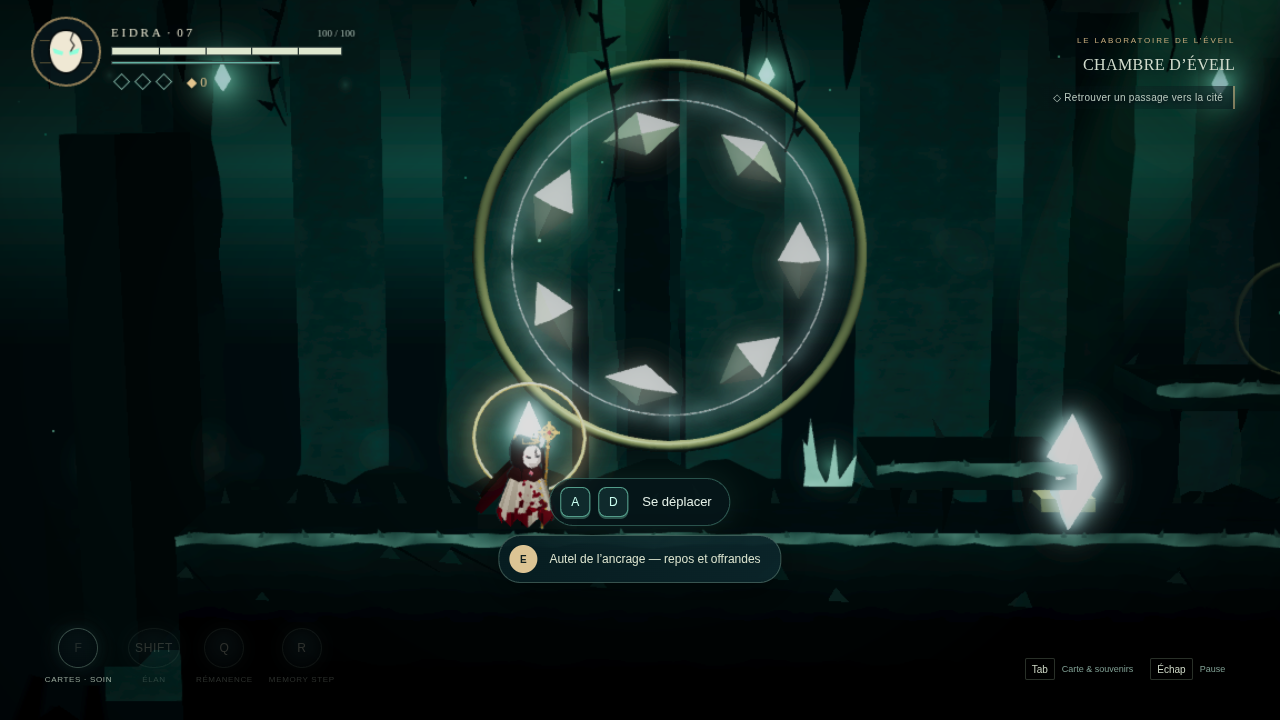
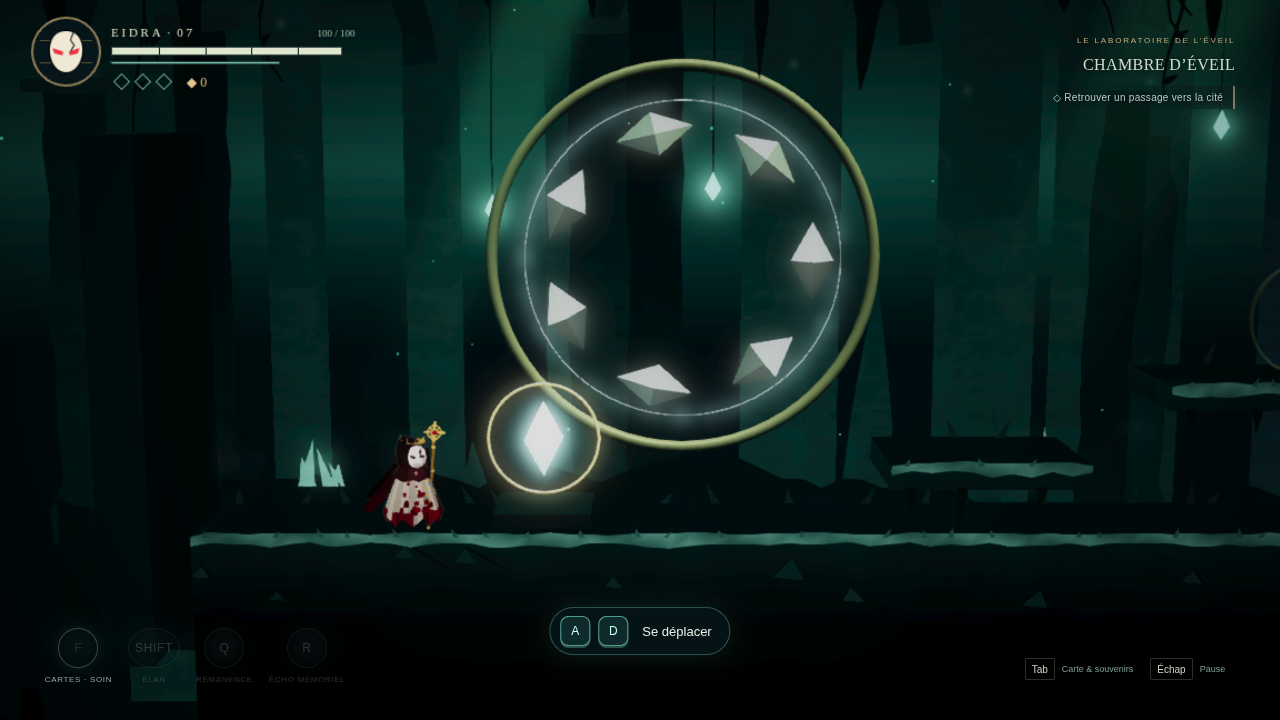
Document Act I in rooms: decisions, level design, tests and performance
D036 now covers the updraft under overhead doors, the four-lane stairs,
gates that stop at the vault and the counterweight anchor at x 127.
Release notes, testing (reach model and physical replay), game design
(the ten foes, the journal), architecture (Rooms, 2D streaming),
roadmap and README follow the thirteenth iteration.

Performance A/B against main: route scenes within noise (CPU equal to
0.1 ms over four passes, draw calls equal or lower); chambers cost what
a route room costs, since only one is shown. Rooms one door away stay
loaded but hidden, hence more meshes and static bodies, steady over
twelve streaming round trips.

Claude-Session: https://claude.ai/code/session_01Q4HpwgZSs3YSowU4xBjobR

diff --git a/docs/ROADMAP.md b/docs/ROADMAP.md
@@ -2,31 +2,31 @@
 
 ## État livré : deux actes jouables (laboratoire, Failles de cendre)
 
-| Phase                                | État                               | Limite / gate restant                                                       |
-| ------------------------------------ | ---------------------------------- | --------------------------------------------------------------------------- |
-| 0 — Stack, dépôt, scène, docs, tests | Réalisée                           | Git local ; GitHub connecté, dépôt non accessible                           |
-| 1 — Contrôleur, caméra, input        | Jouable et testé                   | Wall slide / wall jump pour la campagne future                              |
-| 2 — Combat, dégâts, mort             | Jouable et testé, game feel ajouté | Animation finale et équilibrage humain                                      |
-| 3 — FSM et ennemis                   | Cinq archétypes                    | Animations finales                                                          |
-| 4 — Mini-boss / architecture boss    | Moteur de boss par données         | Identité artistique à affiner                                               |
-| 5 — Rémanence / Écho mémoriel        | Jouable et testé                   | Playtests puzzles / lisibilité                                              |
-| 6 — Sauvegardes, ancrages, respawn   | Réalisée pour le slice             | Qualification quotas / autres navigateurs                                   |
-| 7 — Streaming et transitions         | Réalisée pour le slice             | Ressources bornées, retour par conduit                                      |
-| 8 — Biome du slice                   | Prototype jouable                  | Art Blender final, durée et rythme à valider                                |
-| 9 — Boss qualité production          | Prototype avancé                   | Quatre boss, chacun sa capacité et sa démarche ; équilibrage humain restant |
-| 10 — Narration                       | Deux actes jouables + bible        | Révélations et campagne entière restantes                                   |
-| 11 — Neuf régions                    | Deux jouables                      | Art de production et sept régions restantes                                 |
-| 12 — Sept boss principaux            | Quatre jouables                    | Porteur, Gardien, Sentinelle et Ilyra ; trois restants                      |
-| 13 — Audio / VFX / shaders           | Partition et bruitages générés     | Enregistrement musical, rigs, VFX et textures de production restants        |
-| 14 — Performance                     | Instrumentée et mesurée            | 60 FPS sur GPU moyen non certifiés                                          |
-| 15 — Accessibilité / input           | Toutes manettes, remappage         | Qualification sur manettes physiques                                        |
-| 16 — QA complet                      | Chromium logiciel + tests domaine  | Firefox / Safari / WebGPU matériel restants                                 |
-| 17 — Release                         | Build et configuration prêts       | Publication requiert l'accès Cloudflare                                     |
+| Phase                                | État                                | Limite / gate restant                                                          |
+| ------------------------------------ | ----------------------------------- | ------------------------------------------------------------------------------ |
+| 0 — Stack, dépôt, scène, docs, tests | Réalisée                            | Git local ; GitHub connecté, dépôt non accessible                              |
+| 1 — Contrôleur, caméra, input        | Jouable et testé                    | Wall slide / wall jump pour la campagne future                                 |
+| 2 — Combat, dégâts, mort             | Jouable et testé, game feel ajouté  | Animation finale et équilibrage humain                                         |
+| 3 — FSM et ennemis                   | Dix types (cinq dans les salles)    | Animations finales                                                             |
+| 4 — Mini-boss / architecture boss    | Moteur de boss par données          | Identité artistique à affiner                                                  |
+| 5 — Rémanence / Écho mémoriel        | Jouable et testé                    | Playtests puzzles / lisibilité                                                 |
+| 6 — Sauvegardes, ancrages, respawn   | Réalisée pour le slice              | Qualification quotas / autres navigateurs                                      |
+| 7 — Streaming et transitions         | Salles 2D, portes, voile (D036)     | Salles pour l'Acte II                                                          |
+| 8 — Biome du slice                   | Acte I en 25 salles, carte, journal | Art Blender final ; durée (45–55 min estimées) et rythme à valider en playtest |
+| 9 — Boss qualité production          | Prototype avancé                    | Quatre boss, chacun sa capacité et sa démarche ; équilibrage humain restant    |
+| 10 — Narration                       | Deux actes jouables + bible         | Révélations et campagne entière restantes                                      |
+| 11 — Neuf régions                    | Deux jouables                       | Art de production et sept régions restantes                                    |
+| 12 — Sept boss principaux            | Quatre jouables                     | Porteur, Gardien, Sentinelle et Ilyra ; trois restants                         |
+| 13 — Audio / VFX / shaders           | Partition et bruitages générés      | Enregistrement musical, rigs, VFX et textures de production restants           |
+| 14 — Performance                     | Instrumentée et mesurée             | 60 FPS sur GPU moyen non certifiés                                             |
+| 15 — Accessibilité / input           | Toutes manettes, remappage          | Qualification sur manettes physiques                                           |
+| 16 — QA complet                      | Chromium logiciel + tests domaine   | Firefox / Safari / WebGPU matériel restants                                    |
+| 17 — Release                         | Build et configuration prêts        | Publication requiert l'accès Cloudflare                                        |
 
 ## Prochaine séquence
 
 1. Qualifier WebGPU et 60 FPS sur au moins deux GPU moyens réels, Windows et macOS.
-2. Playtester sans outils debug : compréhension des pouvoirs, secret, retour, difficulté du Porteur, du Gardien, de la Sentinelle et d'Ilyra (lisibilité des reflets, tolérance du Commandement), rythme des colonnes de feu, durée réelle.
+2. Playtester sans outils debug l'Acte I en salles : temps réel de chaque pouvoir (Élan, Rémanence, Écho), orientation avec la carte, découverte des trois murs fêlés et du raccourci de la grille, lisibilité des cinq nouveaux ennemis ; puis compréhension des pouvoirs, secret, retour, difficulté du Porteur, du Gardien, de la Sentinelle et d'Ilyra (lisibilité des reflets, tolérance du Commandement), rythme des colonnes de feu, durée réelle.
 3. Remplacer les silhouettes TODO_ART par des rigs Blender et animations intentionnelles, conserver les proxies simples.
 4. Raffiner la boucle d'exploration du laboratoire et le combat jusqu'à validation du gate.
 5. Produire l'art final des Failles de cendre, puis les Jardins de verre et les autres régions, avec le même niveau d'exigence.

diff --git a/docs/DECISIONS.md b/docs/DECISIONS.md
@@ -192,10 +192,11 @@ L'étape 2 de l'analyse demandait de passer d'une route en x à un graphe de sal
 
 - **Le modèle** (`game-data/zones/laboratory.ts`, `src/world/Rooms.ts`, pur et testé). Chaque secteur de la route est une salle `route` (de `start` à `end`, de −5 à 11 m) ouverte sur ses voisines. Une `chamber` est une boîte (`start`..`end` × `bottom`..`top`) dont les murs, le sol et la voûte (`shell`, 0,6 m d'épaisseur, à l'intérieur de la boîte) ne s'ouvrent qu'à ses **portes** : une plage de y sur un côté, une plage de x en haut ou en bas. Une porte mène à la salle qui se trouve de l'autre côté (`roomAt`) ; une porte de sol qui ne mène nulle part est un gouffre. Les ouvertures des salles de la route (le trou du puits dans la galerie, la voûte du contrepoids) se déduisent des portes des chambres. Le monde reste **un seul espace physique** : on tombe vraiment d'une salle dans l'autre.
 - **Streaming en 2D** (`SceneManager`). La salle d'Eidra est suivie avec une hystérésis de 0,3 m ; une chambre qu'on atteint par le sol d'une salle de la route prend le relais tout de suite. Dans la route, les salles à moins de 24 m le long de x sont affichées comme un couloir continu, comme avant ; dans une chambre, seule la chambre l'est. Les salles à une porte de distance sont **chargées mais cachées** : leur sol est là au moment où Eidra passe. Les ennemis et les colonnes de feu ne vivent que dans les salles affichées.
-- **Caméra et passage.** Dans une chambre, la vue reste entre ses murs (`confine`) ; une salle plus étroite que l'écran est centrée. Passer une porte vers ou depuis une chambre coupe par un **voile noir** de 0,4 s et recadre la caméra d'un coup (`Presentation.enter`, voile dans le HUD). Une porte au-dessus d'Eidra la porte d'un **courant ascendant** au-dessus du seuil (`GameSession.updraft`) : un saut qui atteint l'ouverture atterrit toujours à côté.
-- **Systèmes de la route.** Ce qui était lu le long de x l'est désormais seulement dans les salles de la route : arènes et boss (et un boss n'écoute pas Eidra à plus de 12 m au-dessus ou au-dessous de lui), portes de progression, dialogues de la route, indices par bande de x (un indice peut aussi désigner une salle), sceau du contrepoids. Ambiance et musique d'une chambre sont celles de son secteur, ou les siennes (`moods[room.id]`). Les ancrages ont une hauteur (`y`). Une chute hors de toute salle renvoie, dans la route, sur la rive du gouffre ; dans une chambre, sur le dernier sol ferme où Eidra se tenait. Les portes de progression montent jusqu'à la voûte (12 m) : aucune corniche ne permet de les sauter.
+- **Caméra et passage.** Dans une chambre, la vue reste entre ses murs (`confine`) ; une salle plus étroite que l'écran est centrée. Passer une porte vers ou depuis une chambre coupe par un **voile noir** de 0,4 s et recadre la caméra d'un coup (`Presentation.enter`, voile dans le HUD). Une porte au-dessus d'Eidra la porte d'un **courant ascendant** au-dessus du seuil (`draftAt` dans `Rooms.ts`, appliqué par `GameSession.updraft`) : à moins de 2 m sous l'ouverture, entre ses bords (0,35 m de marge) et en montant, Eidra est relancée juste assez pour poser les pieds 0,7 m au-dessus du seuil ; un saut qui atteint l'ouverture atterrit donc toujours à côté, sans se cogner à la voûte. Un volet ou un mur fêlé encore fermé dans l'ouverture coupe le courant.
+- **Systèmes de la route.** Ce qui était lu le long de x l'est désormais seulement dans les salles de la route : arènes et boss (et un boss n'écoute pas Eidra à plus de 12 m au-dessus ou au-dessous de lui), portes de progression, dialogues de la route, indices par bande de x (un indice peut aussi désigner une salle), sceau du contrepoids. Ambiance et musique d'une chambre sont celles de son secteur, ou les siennes (`moods[room.id]`). Les ancrages ont une hauteur (`y`). Une chute hors de toute salle renvoie, dans la route, sur la rive du gouffre ; dans une chambre, sur le dernier sol ferme où Eidra se tenait. Les portes de progression montent jusqu'à la voûte des salles de la route (11 m) : aucune corniche ne permet de les sauter, et elles ne dépassent pas dans les chambres posées au-dessus. L'ancrage du contrepoids passe de x 136,5 à x 127, sur le sol plat qui précède les corniches de la cage.
 - **Sceaux** (`seals`) : un **mur fêlé** cède après quelques coups et cache une salle secrète ; un **volet** ne s'ouvre que par son levier, de l'autre côté (raccourci). Ils appartiennent au monde et non à une salle, pour être vus et solides des deux côtés d'une porte ; leur ouverture est un drapeau `open:<id>`, donc la sauvegarde n'a pas changé de forme.
 - **Peinture des chambres** (`paintChamber`) : peinte comme si son sol était à 0 puis déplacée à sa hauteur, avec les outils du décor de la route (colonnes, arches, fenêtres, rouages, bannières, lanternes, cristaux, lianes) ; roche tout autour avec des blocs de pierre, mur du fond en assises, embrasures sombres et seuil éclairé aux portes, lumière qui tombe des ouvertures du haut. Les dalles de Rémanence se voient en fantôme (opacité 0,32) bien avant que le pouvoir les rende solides.
+- **Escaliers** (`stairs` dans `depths.ts`). Une montée est une suite de marches de 2,2 m de large, 1,7 m plus haut l'une que l'autre, réparties sur quatre couloirs parcourus dans l'ordre gauche → milieu-droite → droite → milieu-gauche, de sorte qu'aucune marche ne surplombe le bord d'où l'on saute vers la suivante (plus de coup de tête sous une marche). Une montée de Rémanence ne dépasse pas 8 marches et garde un repos solide : le pouvoir dure 10 s.
 - **Validation du niveau** (`tests/unit/rooms.test.ts`, `tests/unit/support/reach.ts`). Un modèle des surfaces praticables (sauts balistiques de `MovementModel`, chutes, Élan, Rémanence, portes, courant ascendant, murs fêlés, volet ouvert une fois son levier atteint) prouve que l'Acte I se termine dans l'ordre (Élan, puis Rémanence, puis Écho mémoriel), qu'aucun pouvoir n'est atteignable trop tôt et qu'**aucun endroit n'est une impasse** : de toute surface atteignable, le pouvoir suivant reste atteignable. Les autres tests : salles sans chevauchement, portes réciproques, chambres hors d'atteinte d'une chute dans un gouffre de la route, ancrages sur un sol ferme, ennemis sur leur sol, sceaux dans une porte, streaming borné.
 - **Compatibilité.** Une sauvegarde de la version précédente se charge telle quelle : sa position le long de la route reste valide, les identifiants des pouvoirs déjà ramassés ne changent pas (un pouvoir déjà obtenu n'apparaît plus dans sa nouvelle salle), et le seul champ ajouté (`bestiary`) a une valeur par défaut.
 

diff --git a/docs/LEVEL_DESIGN.md b/docs/LEVEL_DESIGN.md
@@ -18,13 +18,13 @@ L'Acte I compte **25 salles** : les 5 secteurs de la route (salles ouvertes le l
 2. **Galerie des veilleurs** (route, 40–80) : Souvenir errant, Porteur de cendres, parade ; ancrage de Mira (73). Après Mira, le sol s'ouvre sur **le puits** (78–80) : Mira dit que ce qu'on voulait oublier, on le descendait là.
 3. **Les profondeurs** (−52 à −2) : le puits de Mira (une chute ; ses marches sont des souvenirs), les archives englouties (ancrage des archives, Coque murée, Phalènes), la salle des élans (**Élan de Lumérite**, ~10 min) et l'épreuve de l'Élan (un gouffre de 7,6 m, un reliquaire), le gouffre des copistes (8 m : seul l'Élan le franchit), l'escalier noyé (une montée de 22 m) et la chapelle noyée (deux Gisants, un reliquaire), le sanctuaire de la **Rémanence** (~20 min), puis les racines du souvenir : des marches remémorées jusqu'à une **grille** sous les archives, dont le levier est en bas (raccourci vers l'ancrage). Le puits se remonte alors par ses marches remémorées.
 4. **Pont du souvenir** (route, 80–120) : la Rémanence refait le pont ; Veilleur du pont, sortie scellée.
-5. **Chambre du contrepoids** (route, 120–160) : ancrage (136,5) ; des corniches montent vers la voûte (135–138) et **les combles** : la cage du contrepoids, le beffroi, le sanctuaire de l'**Écho mémoriel** (~35 min). L'Écho tient le sceau (130), la porte (141) s'ouvre sur le fragment de Seris et l'arène du Porteur.
+5. **Chambre du contrepoids** (route, 120–160) : ancrage (127, sur le sol plat avant les corniches) ; des corniches montent vers la voûte (135–138) et **les combles** : la cage du contrepoids, le beffroi, le sanctuaire de l'**Écho mémoriel** (~35 min). L'Écho tient le sceau (130), la porte (141) s'ouvre sur le fragment de Seris et l'arène du Porteur.
 6. **Les combles** reviennent vers l'ouest : combles du contrepoids (mur fêlé vers la loge de Noa), archives suspendues au-dessus du pont (Rémanence et Élan ; tomber ramène au pont), loge des lanternes (on retombe sur l'ancrage de Mira), nef haute, crypte des berceaux (fragment d'Aren) au-dessus de la chambre d'éveil, et l'oculus derrière un mur fêlé.
 7. **Le seuil de l'obéissance** (route, 160–201) : Gardien Sans Visage, puis l'Acte II.
 
 Pouvoirs espacés : Élan ~10 min, Rémanence ~20 min, Écho ~35 min (estimations à confirmer en playtest). Fragments : Kael, Deren (cabinet scellé), Aren, Noa, Seris dans l'Acte I ; Ilyan et Vaela dans l'Acte II : les sept sont placés. Trois secrets derrière des murs fêlés (cabinet, oculus, loge de Noa), quatre reliquaires d'éclats.
 
-**Règles de construction** (tests `rooms`, `walkway`) : les chambres ne se chevauchent pas et ne montent pas dans une salle de la route (sous sa dalle de sol, à −2, ou au-dessus de sa voûte, à 11) ; sous un gouffre de la route, elles restent à 4 m sous la ligne de chute ; une porte mène toujours à une salle dont la porte lui fait face (ou, au sol, à un gouffre) ; les escaliers alternent deux colonnes avec des marches de 1,7 m au plus ; une ouverture au-dessus d'Eidra se franchit d'un saut (courant ascendant) depuis une marche sous elle ; les portes de progression montent jusqu'à la voûte. Le modèle de portée (`reach`) prouve l'ordre des pouvoirs et l'absence d'impasse.
+**Règles de construction** (tests `rooms`, `walkway`) : les chambres ne se chevauchent pas et ne montent pas dans une salle de la route (sous sa dalle de sol, à −2, ou au-dessus de sa voûte, à 11) ; sous un gouffre de la route, elles restent à 4 m sous la ligne de chute ; une porte mène toujours à une salle dont la porte lui fait face (ou, au sol, à un gouffre) ; les escaliers (`stairs`) montent par marches de 2,2 m de large et 1,7 m de haut sur quatre couloirs (gauche → milieu-droite → droite → milieu-gauche), si bien qu'aucune marche ne surplombe le bord d'où l'on saute ; une montée de Rémanence a au plus 8 marches et un repos solide (le pouvoir dure 10 s) ; une ouverture au-dessus d'Eidra se franchit d'un saut depuis une marche sous elle : à moins de 2 m du seuil, un courant ascendant la pose 0,7 m au-dessus (`draftAt`), sauf si un volet ou un mur fêlé ferme encore l'ouverture ; les portes de progression montent jusqu'à la voûte de la route (11 m). Les corniches de récompense sont à 1,25 m au-dessus de leur sol (une marche, pas une dalle à hauteur de tête). Le modèle de portée (`reach`) prouve l'ordre des pouvoirs et l'absence d'impasse.
 
 Favoriser des boucles courtes, des vues sur les passages inaccessibles et un retour après acquisition. Chaque secteur possède ses ressources et ses proxies de collision. Ne jamais charger les neuf régions ensemble.
 
@@ -65,7 +65,7 @@ Le pont du souvenir comporte trois plateformes disparues séparées par de petit
 | Champs de braise      | Porte-braise, Rampant, Porteur      | 279,5      |
 | La Faille             | deux Souvenirs errants              | 320        |
 
-Aucune dalle ne pend entre la taille et la tête d'Eidra (1 à 1,95 m au-dessus d'un sol) : une corniche au-dessus du passage la laisse passer dessous et reste à un saut, ou à une marche (D035, test `walkway`, chambres comprises). Ancrages : éveil (7), Mira (73), archives (72, −29,4, dans les profondeurs), contrepoids (136,5, avant le Porteur), seuil (160), Nhalis (205), braises (242,5, avant les colonnes de feu), Faille (283,5), Brasier (322,5), Jardin (364). Chaque sortie est dans son propre secteur, sur sol plein, à plus de 2 m d'un ancrage de la route ; l'ancrage de Mira (x = 73) récompense la galerie. Un secteur de la route qui reçoit des ennemis hors arène doit déclarer une étape (test unitaire) ; les chambres n'en ont pas.
+Aucune dalle ne pend entre la taille et la tête d'Eidra (1 à 1,95 m au-dessus d'un sol) : une corniche au-dessus du passage la laisse passer dessous et reste à un saut, ou à une marche (D035, test `walkway`, chambres comprises). Ancrages : éveil (7), Mira (73), archives (72, −29,4, dans les profondeurs), contrepoids (127, avant le Porteur), seuil (160), Nhalis (205), braises (242,5, avant les colonnes de feu), Faille (283,5), Brasier (322,5), Jardin (364). Chaque sortie est dans son propre secteur, sur sol plein, à plus de 2 m d'un ancrage de la route ; l'ancrage de Mira (x = 73) récompense la galerie. Un secteur de la route qui reçoit des ennemis hors arène doit déclarer une étape (test unitaire) ; les chambres n'en ont pas.
 
 | Arène            | Gardien                  | Portes (x)    | Seuil | Zone du gardien |
 | ---------------- | ------------------------ | ------------- | ----- | --------------- |

diff --git a/README.md b/README.md
@@ -39,7 +39,7 @@ Ouvrir l'adresse indiquée par Vite, généralement http://127.0.0.1:4173. Ne pa
 | Rémanence, après acquisition      | Q                                      | Y / △ / X                               |
 | Écho mémoriel, après acquisition  | R                                      | RB / R1 / R                             |
 | Dialogue / ancrage / autel / pass | E                                      | Haut (stick ou croix)                   |
-| Carte et souvenirs                | Tab                                    | View / Create / −                       |
+| Journal (carte, bestiaire, souv.) | Tab                                    | View / Create / −                       |
 | Pause                             | Échap                                  | Menu / Options / +                      |
 
 Touches remappables dans Réglages. Assistance facultative : dégâts reçus réduits.
@@ -48,7 +48,7 @@ Touches remappables dans Réglages. Assistance facultative : dégâts reçus ré
 
 ## Contenu jouable
 
-Dix secteurs en deux actes (le laboratoire, puis les Failles de cendre) ; mouvement avec coyote time et jump buffer ; capsule Havok ; dash ; attaques légère, chargée, aérienne, plongeante (pogo) et pendant le dash, avec tampon d’entrée ; combo ; parade et riposte ; hit-stop ; Recueillement (soin alimenté par la résonance des coups portés) ; cinq archétypes ennemis (dont le Rampant qui bondit et le Porte-braise qui tire des salves) ; quatre boss pilotés par les données, chacun avec sa démarche et sa capacité signature — le Porteur du dernier ordre (marche lourde, Étendard planté qui envoie des ondes), le Gardien Sans Visage (lévitation, « NE BOUGEZ PLUS » : un éclat tombe sur Eidra si elle bouge ; pluie d'éclats, disparition, ondes successives), la Sentinelle de cendre (bonds sur la marque d'Eidra, ligne de geysers) et Ilyra (glisse, Reflets à trouver parmi les copies ; pétales, voile d'éclats, ronces, floraison) — avec télégraphes qui raccourcissent et enchaînements ; colonnes de feu à traverser en rythme ; Seconde impulsion (double saut) et la Faille ; Rémanence ; Écho de cinq secondes ; contrepoids ; raccourci de maintenance ; quatre souvenirs ; Mira ; transmissions de Sael ; Ilyra et l'épilogue ; ancrages et autel d’offrandes (éclats → vitalité) ; trois sauvegardes ; carte ; mort et respawn ; bande-son originale générée (thème du titre, un thème par région et par boss, motifs de victoire, de pouvoir, de repos et de mort, ambiances, silence après une victoire) et 59 bruitages en couches avec variantes (pas selon le sol, atterrissages, combos, cartes, coups, télégraphes et capacités des boss, menus) ; quatre presets.
+Deux actes : le laboratoire en 25 salles (les cinq secteurs de la route et 20 chambres au-dessus et au-dessous, reliées par des portes en haut, en bas et sur les côtés, avec boucles, trois salles secrètes derrière des murs fêlés et un raccourci à levier), puis les Failles de cendre en cinq secteurs ; mouvement avec coyote time et jump buffer ; capsule Havok ; dash ; attaques légère, chargée, aérienne, plongeante (pogo) et pendant le dash, avec tampon d’entrée ; combo ; parade et riposte ; hit-stop ; Recueillement (soin alimenté par la résonance des coups portés) ; dix types d'ennemis (dont la Phalène de cire qui plonge, la Coque murée qui pare de face, le Gisant qui dort en pierre, la Lanterne-guetteuse, les Mites de poussière, le Rampant qui bondit et le Porte-braise qui tire des salves) ; quatre boss pilotés par les données, chacun avec sa démarche et sa capacité signature — le Porteur du dernier ordre (marche lourde, Étendard planté qui envoie des ondes), le Gardien Sans Visage (lévitation, « NE BOUGEZ PLUS » : un éclat tombe sur Eidra si elle bouge ; pluie d'éclats, disparition, ondes successives), la Sentinelle de cendre (bonds sur la marque d'Eidra, ligne de geysers) et Ilyra (glisse, Reflets à trouver parmi les copies ; pétales, voile d'éclats, ronces, floraison) — avec télégraphes qui raccourcissent et enchaînements ; colonnes de feu à traverser en rythme ; Seconde impulsion (double saut) et la Faille ; Rémanence ; Écho de cinq secondes ; contrepoids ; raccourci de maintenance ; sept fragments de souvenir ; Mira ; transmissions de Sael ; Ilyra et l'épilogue ; ancrages et autel d’offrandes (éclats → vitalité) ; trois sauvegardes ; journal (carte de l'acte salle par salle, bestiaire, souvenirs) ; mort et respawn ; bande-son originale générée (thème du titre, un thème par région et par boss, motifs de victoire, de pouvoir, de repos et de mort, ambiances, silence après une victoire) et 59 bruitages en couches avec variantes (pas selon le sol, atterrissages, combos, cartes, coups, télégraphes et capacités des boss, menus) ; quatre presets.
 
 Eidra : capuche sombre couronnée d'épines dorées, masque blanc aux yeux pourpres, longs cheveux noirs, robe ivoire éclaboussée de rouge, cape pourpre en lambeaux, bâton doré ; sa résonance tourne autour d'elle en cartes rouges qu'elle lance d'un appui bref (en éventail de trois après une parade), qui forment un bouclier pendant la parade et jaillissent en rafale à l'attaque chargée. Combo de bâton en trois coups (balayage, arc montant, estoc), dash à traînée pourpre, poses de saut, d'apex et de chute, pogo bâton vers le bas.
 

diff --git a/docs/TESTING.md b/docs/TESTING.md
@@ -115,6 +115,21 @@ Avant les tests automatiques, une partie complète a été jouée par un script 
 
 25 parcours E2E. Ajout : **« one prompt at a time, off Eidra, and a clear way under the ledges »** — le voyage commence hors de portée du premier ancrage, la leçon d'abord ; sur l'ancrage (déjà le sien), l'autel remplace la leçon, sur une ligne sous les pieds d'Eidra (plus bas que 80 % de l'écran) ; Eidra passe sous la corniche de Seris par vraies touches jusqu'à l'arène du Porteur ; blessée pendant le combat, aucune leçon ne s'affiche ; l'ancrage du contrepoids s'active. Parcours répété 3 / 3 ; les 24 autres passent sans changement.
 
+## Treizième itération : l'Acte I en salles
+
+234 tests unitaires / intégration dans 27 fichiers. Nouveaux fichiers :
+
+- `rooms.test.ts` : l'Acte I compte au moins 25 salles ; aucune chambre n'en chevauche une autre ni ne monte dans une salle de la route ; les chambres sous un gouffre restent hors d'atteinte d'une chute ; chaque porte mène quelque part et la porte d'en face lui répond ; le sol de la route s'ouvre où une chambre pend dessous ; chaque coque a un trou à chaque porte ; `roomAt` garde la salle d'Eidra à sa limite (hystérésis) ; ancrages, reliquaires, ennemis et sceaux sont dans une salle, les marcheurs sur leur sol ; aucune chambre ne réveille un boss ; une chambre est affichée seule, ses voisines chargées derrière leurs portes ; aucune marche d'escalier ne frappe la tête d'un saut depuis une autre ; aucune montée remémorée ne dure plus que la Rémanence ; la voûte du contrepoids s'ouvre au-dessus de ses corniches.
+- **Le modèle de portée** (`tests/unit/support/reach.ts`) parcourt les surfaces praticables : sauts balistiques tirés des constantes de `MovementModel` (avec ou sans Élan), chutes, portes, courant ascendant, dalles de Rémanence, murs fêlés, volet ouvert une fois son levier atteint. Il prouve l'ordre de l'acte (l'Élan d'abord et rien d'autre avant, puis la Rémanence au-delà du gouffre que seul l'Élan franchit, puis l'Écho mémoriel par le contrepoids, la cage et le beffroi, puis la porte du contrepoids, Seris et la fin) et l'absence d'impasse : de toute surface atteignable, le pouvoir suivant reste atteignable. Chaque gouffre qui demande l'Élan est simulé pas à pas avec `MovementModel` : franchi avec, manqué sans.
+- `depths-enemies.test.ts` : dix types d'ennemis, chacun avec une apparence, une ligne de récit et une place dans l'Acte I ; la Phalène plonge une fois par attaque puis remonte ; la Coque se retourne lentement, jamais au milieu d'un coup, et ne pare que de face ; le Gisant reste une pierre inoffensive jusqu'à ce qu'Eidra approche ; la Lanterne reste en place et tire des paires d'étincelles lentes ; les Mites sont les plus rapides et les plus fragiles.
+- `journal.test.ts` : les salles d'un acte ; visitées, entrevues ou cachées (secrets compris) ; la carte en mètres avec ses portes, ses ancrages et Eidra ; le bestiaire ; les seuls souvenirs retrouvés ; les noms de salles en phrases, noms propres gardés.
+
+Tests adaptés : `walkway` (par salle, chambres comprises), `scenery` (bandes de jeu des chambres, ouvertures de la route), `streaming`, `arenas`, `tutorial` (indices par salle), sauvegarde (une partie de l'itération précédente, sans bestiaire, se charge).
+
+26 parcours E2E. Ajout : **« rooms: down the well, through a cracked wall, and the journal of the act »** — après Mira, Eidra tombe dans le puits : seule cette chambre est affichée, ses voisines chargées ; elle touche le fond plus de 14 m sous la route ; dans les archives, le mur fêlé en haut de l'escalier cède sous de vrais coups de bâton, le passage secret est annoncé et le cabinet scellé découvert ; le journal (Tab) dessine les salles visitées, le cabinet comme salle courante, cache l'oculus pas encore trouvé, puis le bestiaire (14 entrées) et les sept souvenirs. Le premier parcours prend désormais l'Élan dans la salle des élans ; celui des ancrages active l'ancrage du contrepoids à x 127.
+
+**Rejeu physique** (hors CI, script Playwright sur le build) : pour chaque saut que le modèle de portée juge possible dans les chambres, Eidra est posée sur la surface de départ et le saut est rejoué avec de vraies touches dans Havok. 115 sauts sur 116 atterrissent où le modèle l'annonce ; le dernier, sur un bloc de 1,2 m de large dans la salle des élans, est dépassé par le script (il n'est pas sur un chemin obligé). Ce rejeu a trouvé les marches qui cognaient la tête, les ouvertures trop basses au départ d'un saut et la montée des racines plus longue que la Rémanence, tous corrigés et désormais couverts par des tests unitaires.
+
 ## Qualité restant à qualifier
 
 WebGPU réel, Firefox / Safari, manettes physiques (les profils Linux evdev et les vibrations n'ont été vérifiés qu'avec des manettes scriptées), accessibilité avec lecteurs d’écran, quotas / stockage privé, CSP sur Cloudflare et campagne complète. Le protocole de performance logiciel est décrit dans PERFORMANCE ; il ne certifie pas 60 FPS. Aucun test défaillant n’est désactivé pour rendre la CI verte.

diff --git a/docs/GAME_DESIGN.md b/docs/GAME_DESIGN.md
@@ -4,9 +4,9 @@ Metroidvania solo 2.5D. Piliers : exploration, combat lisible, mémoire physique
 
 ## Deux actes jouables
 
-**Acte I — Le laboratoire oublié.** Réveil, apprentissage du mouvement, premières rencontres, Mira, acquisition de Rémanence, retour vers un passage oublié, Écho mémoriel, Porteur du dernier ordre et Gardien Sans Visage. L'adieu de Mira ouvre la porte de Nhalis.
+**Acte I — Le laboratoire oublié.** Réveil, apprentissage du mouvement, premières rencontres, Mira, la descente dans le puits, l'Élan de Lumérite, la Rémanence au fond des profondeurs, la remontée vers les combles, l'Écho mémoriel, Porteur du dernier ordre et Gardien Sans Visage. L'adieu de Mira ouvre la porte de Nhalis. L'acte est un réseau de 25 salles sur deux dimensions (D036, LEVEL_DESIGN) : la route et 20 chambres au-dessus et au-dessous, avec des boucles, trois salles secrètes derrière des murs fêlés et un raccourci qui s'ouvre de l'autre côté. Les pouvoirs sont espacés (Élan vers 10 min, Rémanence vers 20 min, Écho vers 35 min) et chacun ouvre des salles déjà aperçues : les dalles de la Rémanence se voient en fantôme dès la première salle. Objectif de durée d'un premier passage : 45 à 55 minutes, à confirmer par playtests humains.
 
-**Acte II — Les Failles de cendre.** Rampants qui bondissent, Porte-braise qui tirent des salves, colonnes de feu à traverser en rythme, Seconde impulsion (double saut), la Faille à franchir de corniche en corniche sous les Souvenirs errants, la Sentinelle de cendre, puis Ilyra au Jardin du déni et l'épilogue. Objectif de durée : 35–50 minutes pour les deux actes, à confirmer par playtests humains. Les deux actes ne sont pas le jeu complet.
+**Acte II — Les Failles de cendre.** Rampants qui bondissent, Porte-braise qui tirent des salves, colonnes de feu à traverser en rythme, Seconde impulsion (double saut), la Faille à franchir de corniche en corniche sous les Souvenirs errants, la Sentinelle de cendre, puis Ilyra au Jardin du déni et l'épilogue. L'Acte II garde sa route ; objectif de durée : 20 à 30 minutes, à confirmer par playtests humains. Les deux actes ne sont pas le jeu complet.
 
 ## Boucle
 
@@ -32,6 +32,14 @@ L'interface n'a qu'un canal (D035) : une invite à la fois, sur une ligne basse 
 ## Manettes
 
 Le jeu se joue entièrement à la manette, quel qu'en soit le modèle, comme les action-plateformes de référence. Disposition par défaut : saut en bas (A / ✕), frappe à gauche (X / □), recueillement à droite maintenu (B / ○), Rémanence en haut (Y / △), esquive sur la gâchette droite, attaque chargée sur la gauche, parade et Écho mémoriel sur les gâchettes hautes, carte sur Select, pause sur Start, parler / s'ancrer / ouvrir un passage en poussant vers le haut, plongée avec bas + frappe. Le stick à mi-course fait marcher. Chaque action (hors déplacement, visée et pause) se réassigne à la manette seule ; la zone morte, la force des vibrations et le style des symboles se règlent. Les menus se parcourent à la manette (navigation spatiale, curseurs et listes à gauche / droite, onglets aux gâchettes hautes, retour sur B / ○). Vibrations : coup porté (léger), parade, blessure, choc lourd, victoire, mort. Débrancher la manette met le jeu en pause.
+
+## Ennemis de l'Acte I
+
+Dix types, décrits par des données (`game-data/enemies/roster.ts`) et chacun lisible à sa silhouette : le **Veilleur fêlé** (hallebarde), le **Souvenir errant** (flotte et tire de loin), le **Porteur de cendres** (enchaîne deux coups), puis dans les salles : la **Phalène de cire** (plane hors de portée, plonge une fois sur Eidra puis remonte : se frappe en l'air ou à la plongée), la **Coque murée** (pare de face, se retourne lentement : on la prend de dos ou par-dessus), la **Mite de poussière** (rapide, fragile, en nombre), la **Lanterne-guetteuse** (immobile, tire des paires d'étincelles lentes à esquiver ou à parer) et le **Gisant** (une pierre inoffensive qui se lève quand on approche). Le Rampant de cendre et le Porte-braise viennent de l'Acte II. Le bestiaire du journal nomme chaque ennemi dès qu'un des siens est tombé, avec une ligne de récit.
+
+## Carte et journal
+
+Le journal (Tab, ou le bouton de carte) montre la carte de l'acte en cours, salle par salle et à l'échelle : salles visitées, salles entrevues par une porte, secrets absents tant qu'ils ne sont pas trouvés, portes, ancrages et position d'Eidra. Deux autres onglets : le bestiaire et les souvenirs retrouvés, en entier.
 
 ## Arènes et contact
 

diff --git a/docs/ARCHITECTURE.md b/docs/ARCHITECTURE.md
@@ -40,10 +40,12 @@ L'écran titre (D034) est une coque de `MenuUI` (sections, profil, nouveautés, 
 
 `ArenaDirector` (bosses) scelle et libère les arènes décrites dans `game-data/zones/laboratory.ts` ; `GameSession.closedGates()` combine ses portes et le sceau du contrepoids, `World` les applique (colliders statiques créés près du joueur, animation de montée purement visuelle, changements signalés à `Presentation` pour la poussière) et `EnemyManager` en borne les corps avec les intervalles de `Terrain` (D020, D021). `GameSession.bossBar` expose au HUD la vie du gardien combattu. Chaque boss du `bossRoster` (`game-data/bosses`, D027) est une `BossEncounter` de `EnemyManager` : son `BossDirector` (logique pure) choisit patterns, phases et enchaînements, le gestionnaire traduit les déclenchements en coups. Les colonnes de feu sont des fonctions pures de `GameSession.hazardTime` (`combat/Hazards`, D029), lues à l'identique par les dégâts et par `Presentation`. `Poses` traduit l'état des FSM, du directeur de boss et du combat en poses clés visuelles (D022), dont les angles du bâton d'Eidra ; `CardSystem` (`combat/Cards`) simule les cartes lancées, `CardHalo` les dessine avec l'orbite de résonance (D031) ; `LightRays` dessine les lames de lumière.
 
-`SceneManager` conserve seulement les secteurs proches, puis libère chaque `ChunkView`. `World` possède les colliders simples et portes d'arène. Les corps mémoire sont créés / détruits quand Rémanence change ; aucune physique n’est attachée à un modèle artistique complexe. `AssetLoader` prépare le chargement GLB asynchrone avec annulation et libération ; le blockout du prélude est actuellement procédural.
+Salles (D036) : `world/Rooms` est la géométrie pure des salles (`roomAt`, `trackRoom` avec hystérésis, portes et passages, coques, solides, courant ascendant `draftAt`), sans Babylon. Les salles de la route viennent de `laboratory.ts`, les chambres de `game-data/zones/depths.ts` ; les sceaux (murs fêlés, volet) sont des solides du monde dont l'ouverture est un drapeau. `SceneManager` suit la salle d'Eidra, affiche sa salle (et, dans la route, les salles de la route à moins de 24 m), charge sans les montrer les salles à une porte et libère les autres ; `GameSession` ne fait vivre ennemis et colonnes de feu que dans les salles affichées. `CameraRig.confine` garde la vue dans une chambre et le HUD porte le voile noir des passages. `ui/Journal` est la carte et le journal en fonctions pures (salles d'un acte, marque d'une salle, carte SVG, bestiaire, souvenirs) ; `MenuUI` ne fait que les disposer.
+
+`SceneManager` conserve seulement les salles proches, puis libère chaque `ChunkView`. `World` possède les colliders simples et portes d'arène. Les corps mémoire sont créés / détruits quand Rémanence change ; aucune physique n’est attachée à un modèle artistique complexe. `AssetLoader` prépare le chargement GLB asynchrone avec annulation et libération ; le blockout du prélude est actuellement procédural.
 
 Les ressources répétées des impacts et projectiles visuels sont préallouées. Les meshes statiques sont fusionnés par matériau, sauf les éléments interactifs. Les décodeurs WASM et JS sont servis localement. L’audio Babylon V2 utilise des boucles OGG originales, un crossfade et des effets spatiaux, avec secours WAV explicite.
 
 ## Persistance
 
-SaveManager valide les frontières avec Zod et écrit dans IndexedDB. Trois slots, version 2, migration depuis 1 ; version future / corruption refusées sans écrasement silencieux. Les positions transitoires sur le pont mémoire ou pendant le boss sont remplacées par l’ancrage lors de la sauvegarde. Les réglages ont une persistance distincte et sont inclus dans les sauvegardes.
+SaveManager valide les frontières avec Zod et écrit dans IndexedDB. Trois slots, version 2, migration depuis 1 ; version future / corruption refusées sans écrasement silencieux. Les positions transitoires sur le pont mémoire ou pendant le boss sont remplacées par l’ancrage lors de la sauvegarde. Le bestiaire (ennemis vaincus par type) est un champ optionnel, vide par défaut : les sauvegardes antérieures restent valides. Les réglages ont une persistance distincte et sont inclus dans les sauvegardes.

diff --git a/docs/RELEASE_NOTES.md b/docs/RELEASE_NOTES.md
@@ -130,3 +130,14 @@ Lire README, ROADMAP et AGENT_RULES, lancer `npm ci`, puis `npm run check` et le
 - **Une interface plus calme** : une seule invite à la fois, en bas de l'écran et jamais sur Eidra ; aucune leçon pendant un boss ; une leçon ignorée finit par se retirer ; des notifications qui se remplacent au lieu de s'empiler ; un nom de zone plus discret ; des dialogues qui laissent voir ceux qui parlent.
 - Le voyage commence à côté du premier ancrage, avec une seule consigne : se déplacer.
 - « Memory Step » s'appelle désormais l'**Écho mémoriel**. Le masque du HUD a les yeux pourpres d'Eidra, la fin de l'Acte II compte les fragments sur sept, la carte tient sur les petits écrans.
+
+### Treizième itération : l'Acte I en salles
+
+- **Un Acte I en 25 salles** au lieu d'une route (D036) : les cinq secteurs de la route deviennent des salles ouvertes, et **20 chambres** fermées s'ouvrent au-dessus et au-dessous par des portes en haut, en bas et sur les côtés, de 52 m sous la route à 55 m au-dessus. Le monde reste un seul espace : on tombe vraiment d'une salle dans l'autre.
+- **Des pouvoirs espacés** : l'Élan de Lumérite dans la salle des élans, sous la galerie (environ 10 min) ; la Rémanence au fond, dans son sanctuaire (environ 20 min) ; l'Écho mémoriel au sommet des combles (environ 35 min). Les dalles de la Rémanence se voient en fantôme bien avant d'avoir le pouvoir : un retour promis.
+- **Verticalité, boucles et secrets** : le puits de Mira, l'escalier noyé (22 m de montée), la cage et le beffroi ; une grille sous les archives qui s'ouvre par son levier, depuis les racines (raccourci vers l'ancrage) ; des combles qui retombent sur l'ancrage de Mira et sur le pont. Trois **murs fêlés** cèdent sous le bâton et cachent le cabinet scellé, l'oculus et la loge de Noa. Quatre reliquaires d'éclats ; les fragments de Deren, d'Aren et de Noa rejoignent ceux de Kael et de Seris.
+- **Cinq nouveaux ennemis** (dix types dans l'Acte I) : la Phalène de cire plonge sur Eidra puis remonte ; la Coque murée pare les coups de face et se retourne lentement : on la prend de dos ou par-dessus ; le Gisant dort en pierre jusqu'à ce qu'on l'approche ; la Lanterne-guetteuse tire des paires d'étincelles lentes ; les Mites de poussière arrivent vite et en nombre.
+- **Une vraie carte et un journal** (Tab) : la carte de l'acte salle par salle (salles visitées, salles entrevues par une porte, secrets cachés jusqu'à leur découverte), avec ses portes, ses ancrages et Eidra ; un **bestiaire** (chaque ennemi et chaque boss nommé dès qu'un des siens est tombé, avec le nombre vaincu et une ligne de récit) ; les **souvenirs** retrouvés, en entier.
+- **Passer d'une salle à l'autre** : dans une chambre, la caméra reste entre ses murs ; entrer ou sortir d'une chambre passe par un noir de 0,4 s. Sous une porte au-dessus d'elle, un courant ascendant pose Eidra sur le seuil : un saut qui atteint l'ouverture ne se cogne plus à la voûte. Les escaliers ne laissent plus aucune marche au-dessus du bord d'où l'on saute.
+- Un **ancrage des archives** dans les profondeurs ; l'ancrage du contrepoids recule sur le sol plat (x 127). Les sauvegardes existantes se chargent telles quelles.
+- **Limites** : les durées sont des estimations (45 à 55 min pour un premier passage de l'Acte I) ; seuls des playtests humains les confirmeront, comme la difficulté des nouvelles salles. L'Acte II garde sa route.

diff --git a/docs/PERFORMANCE.md b/docs/PERFORMANCE.md
@@ -138,6 +138,25 @@ Protocole standard : 64 / 26 draw calls et 60 474 / 32 151 triangles, identiques
 
 Mesures brutes : [performance.json](evidence/performance.json) (dernière itération).
 
+### Treizième itération : l'Acte I en salles
+
+Comparaison A / B : build `main` (étape 1 fusionnée) contre ce build, même protocole (rendu logiciel SwiftShader, 1280 × 720, MEDIUM, une partie neuve par scène, médianes de 40 images, deux passages ; quatre passages, ordre alterné, pour l'éveil et les braises). Frame / CPU en ms, draw calls :
+
+| Scène                         | `main`             | Salles             | Meshes / corps physiques / salles chargées |
+| ----------------------------- | ------------------ | ------------------ | ------------------------------------------ |
+| Chambre d'éveil (x 10)        | 162,8 / 5,10 · 66  | 160,6 / 5,22 · 62  | 316 / 6 / 1 → 340 / 19 / 2                 |
+| Pont du souvenir (rive, x 84) | 155,5 / 5,6 · 76   | 162,2 / 6,1 · 72   | 330 / 7 / 2 → 350 / 19 / 3                 |
+| Arène du Porteur (x 150)      | 169,0 / 7,0 · 93   | 166,6 / 6,5 · 93   | 324 / 7 / 2 → 359 / 33 / 3                 |
+| Champs de braise (x 250)      | 171,6 / 7,52 · 106 | 174,2 / 7,53 · 105 | 351 / 9 / 2 → 359 / 13 / 2                 |
+| Archives englouties (chambre) | —                  | 167,0 / 7,6 · 90   | 418 / 56 / 5                               |
+| Escalier noyé (chambre)       | —                  | 159,2 / 7,4 · 68   | 384 / 51 / 4                               |
+| Cage du contrepoids (chambre) | —                  | 157,7 / 7,2 · 70   | 392 / 60 / 4                               |
+| Racines du souvenir (chambre) | —                  | 148,8 / 6,0 · 82   | 384 / 40 / 3                               |
+
+Sur la route, les écarts restent dans le bruit de la mesure (± 4 % en frame, CPU identique à 0,1 ms près sur quatre passages) et les draw calls baissent ou restent égaux. Les chambres coûtent autant qu'une salle de la route : une seule est affichée à la fois. Les meshes et les corps physiques augmentent parce que les salles à une porte sont **chargées mais cachées** (leur sol est là quand Eidra passe) et que chaque coque de chambre est faite de boîtes statiques ; un mesh caché ne coûte pas de draw call. Le plus haut : 418 meshes et 60 corps statiques.
+
+Protocole standard (`tools/benchmark.mjs`) : 64 → 60 / 26 → 24 draw calls et 60 474 → 60 630 / 32 151 → 32 124 triangles en MEDIUM / LOW ; CPU 4,8 / 3,2 ms, inchangé ; rendu logiciel 156,2 / 69,4 ms. Douze allers-retours entre x 123 et x 7 : 353 / 340 meshes, 33 / 19 ressources physiques, 3 / 2 salles chargées, identiques à chaque passage (aucune fuite) et sans erreur navigateur. Bundle principal : 2,04 Mo minifié / 512 ko gzip (+35 ko minifié / +12 ko gzip : données des 20 chambres, salles, carte et journal, cinq ennemis).
+
 ## Optimisation et stabilité
 
 La fusion Babylon des décors statiques par matériau a réduit le menu d’environ 230 à 46 draw calls dans le contrôle avant / après. Les colliders, marqueurs et structures mémoire restent séparés. Matériaux partagés, au plus trois chunks actifs, deux lumières, effets réutilisés par pools, niveaux de visibilité pour les décors éloignés.
